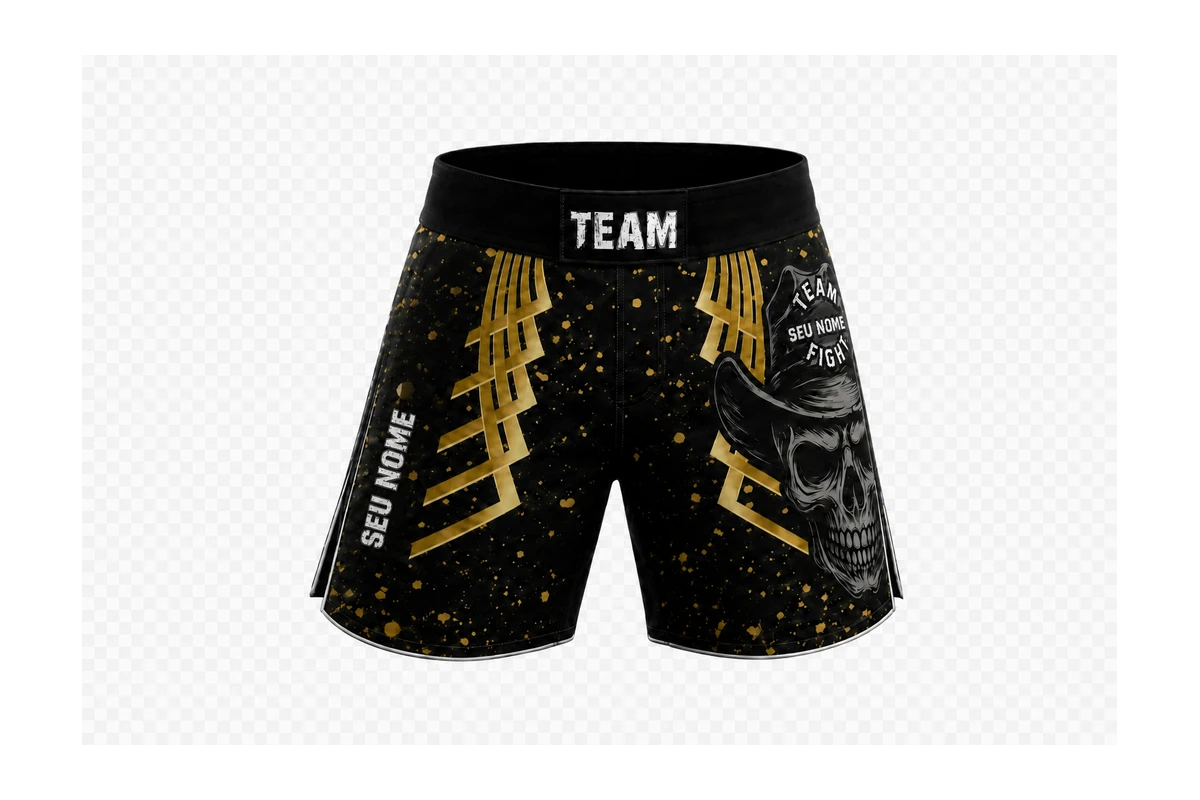
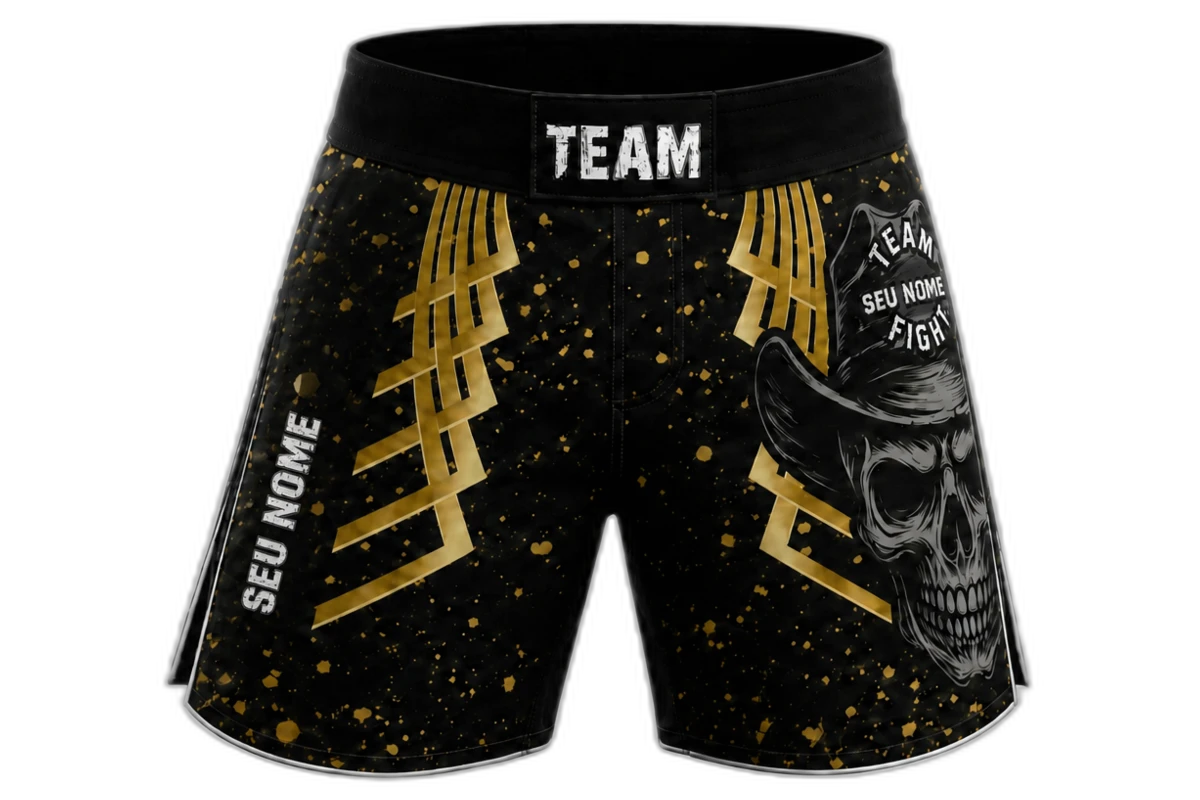
Refine personalized set imagery in store showcase

diff --git a/client/pages/StorePage.tsx b/client/pages/StorePage.tsx
@@ -19,7 +19,7 @@ export function StorePage({ path }: { path?: string }) {
       <div className="mt-10 space-y-8">{storeSets.map((set) => <article className="overflow-hidden border border-white/10 bg-[#141414]" key={set.name}>
         <div className="grid lg:grid-cols-[minmax(0,1.06fr)_minmax(0,0.94fr)]">
           <div className="relative overflow-hidden bg-[#0b0b0b] p-5 sm:p-8 lg:min-h-[23rem]" style={{ backgroundImage: `url(${STORE_BACKDROP_DATA_URL})`, backgroundPosition: "center", backgroundSize: "cover" }}>
-            <div className="pointer-events-none relative z-20 grid h-44 grid-cols-2 items-center gap-2 opacity-95 sm:h-52 lg:absolute lg:inset-x-10 lg:bottom-16 lg:top-16 lg:z-auto lg:h-auto"><img alt={`${set.name} — camisa`} className={`h-full w-full object-contain ${set.collection === "Personalizado" ? "scale-[1.28]" : ""}`} src={set.images[0]} /><img alt={`${set.name} — bermuda`} className={`h-full w-full object-contain ${set.collection === "Personalizado" ? "scale-[1.28]" : ""}`} src={set.images[1]} /></div>
+            <div className="pointer-events-none relative z-20 grid h-44 grid-cols-2 items-center gap-2 opacity-95 sm:h-52 lg:absolute lg:inset-x-10 lg:bottom-16 lg:top-16 lg:z-auto lg:h-auto"><img alt={`${set.name} — camisa`} className="h-full w-full object-contain" src={set.images[0]} /><img alt={`${set.name} — bermuda`} className="h-full w-full object-contain" src={set.images[1]} /></div>
             <div className="relative z-10 mt-5 flex flex-col justify-between lg:mt-0 lg:h-full"><div><p className="text-[0.6rem] font-black uppercase tracking-[0.2em] text-[#d4af37]">{set.collection}</p><h2 className="mt-3 max-w-sm font-['Teko'] text-5xl font-bold uppercase leading-[0.82] text-white sm:text-6xl">{set.name}</h2></div><div className="mt-8 flex items-end justify-between gap-4 border-t border-white/15 pt-5"><div><p className="text-xs text-white/55">{set.description}</p><strong className="mt-2 block font-['Teko'] text-4xl font-bold leading-none text-[#d4af37]">{priceLabel(set.price)}</strong></div><BuyButton dark product={set.name} /></div></div><div className="pointer-events-none absolute inset-0 hidden bg-[linear-gradient(0deg,rgba(10,10,10,0.9),transparent_52%)] lg:block" />
           </div>
           <div className="grid sm:grid-cols-2 lg:grid-cols-2">{set.pieces.map((item) => <article className="group flex flex-col border-l border-t border-white/10 bg-[#111111] first:border-t-0 sm:first:border-t lg:first:border-t" key={item.id}>
